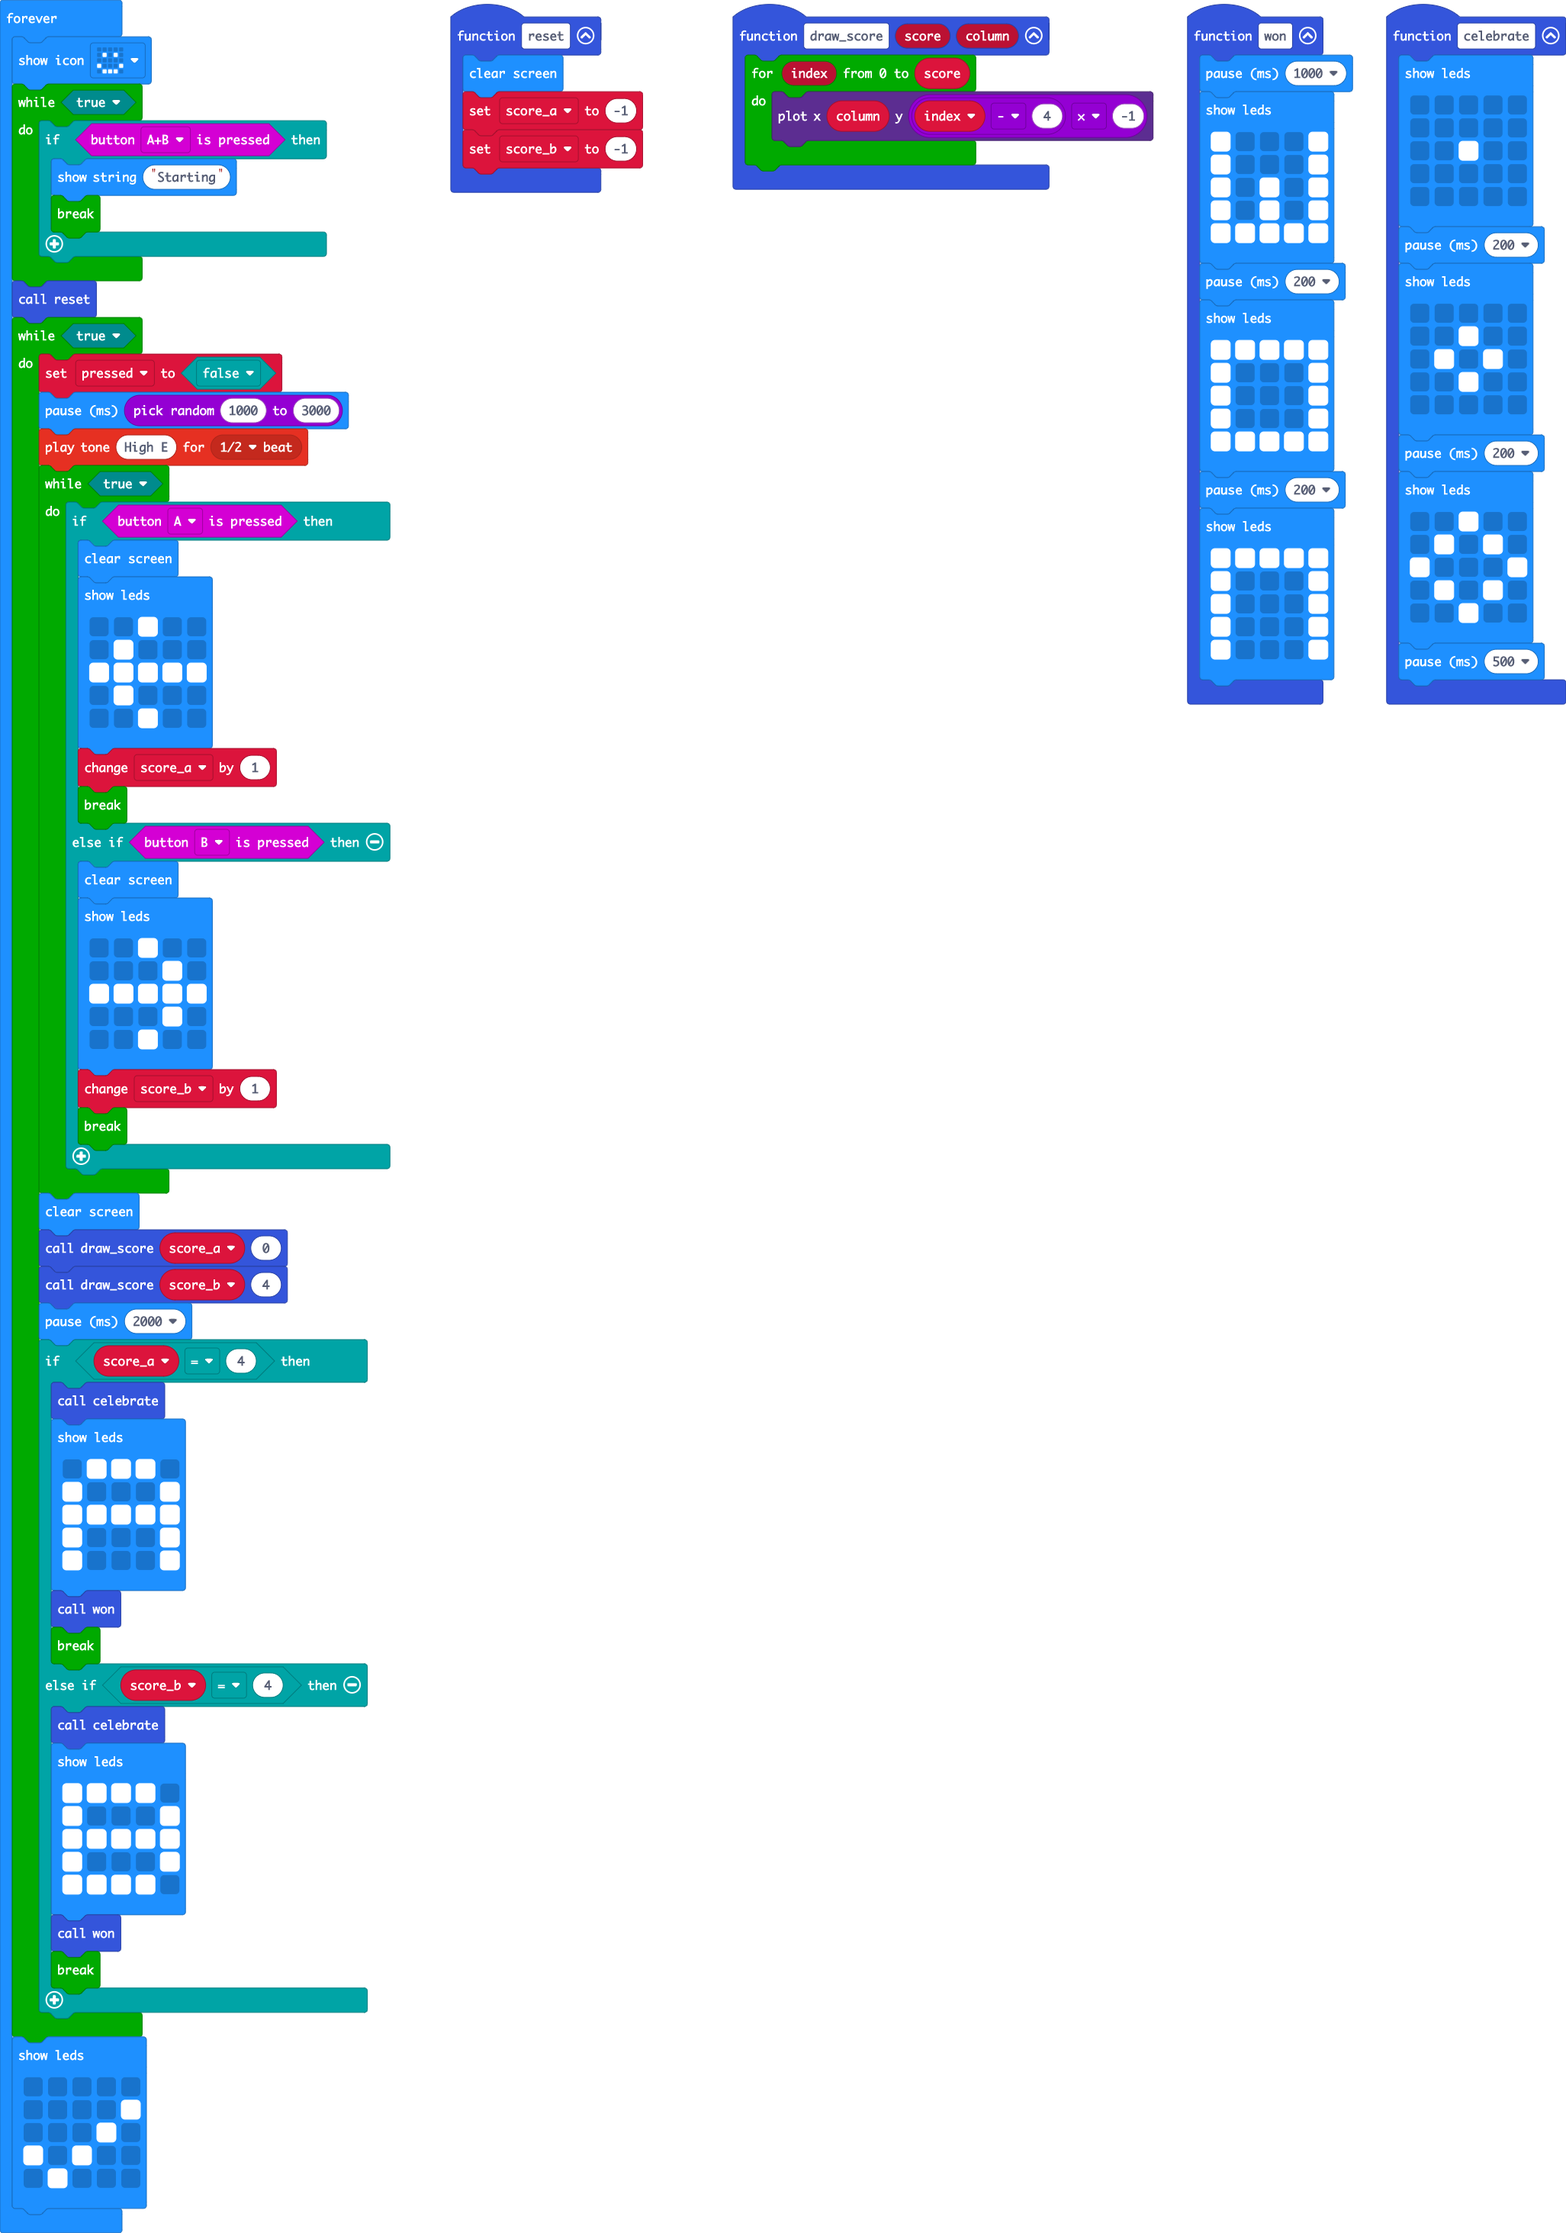
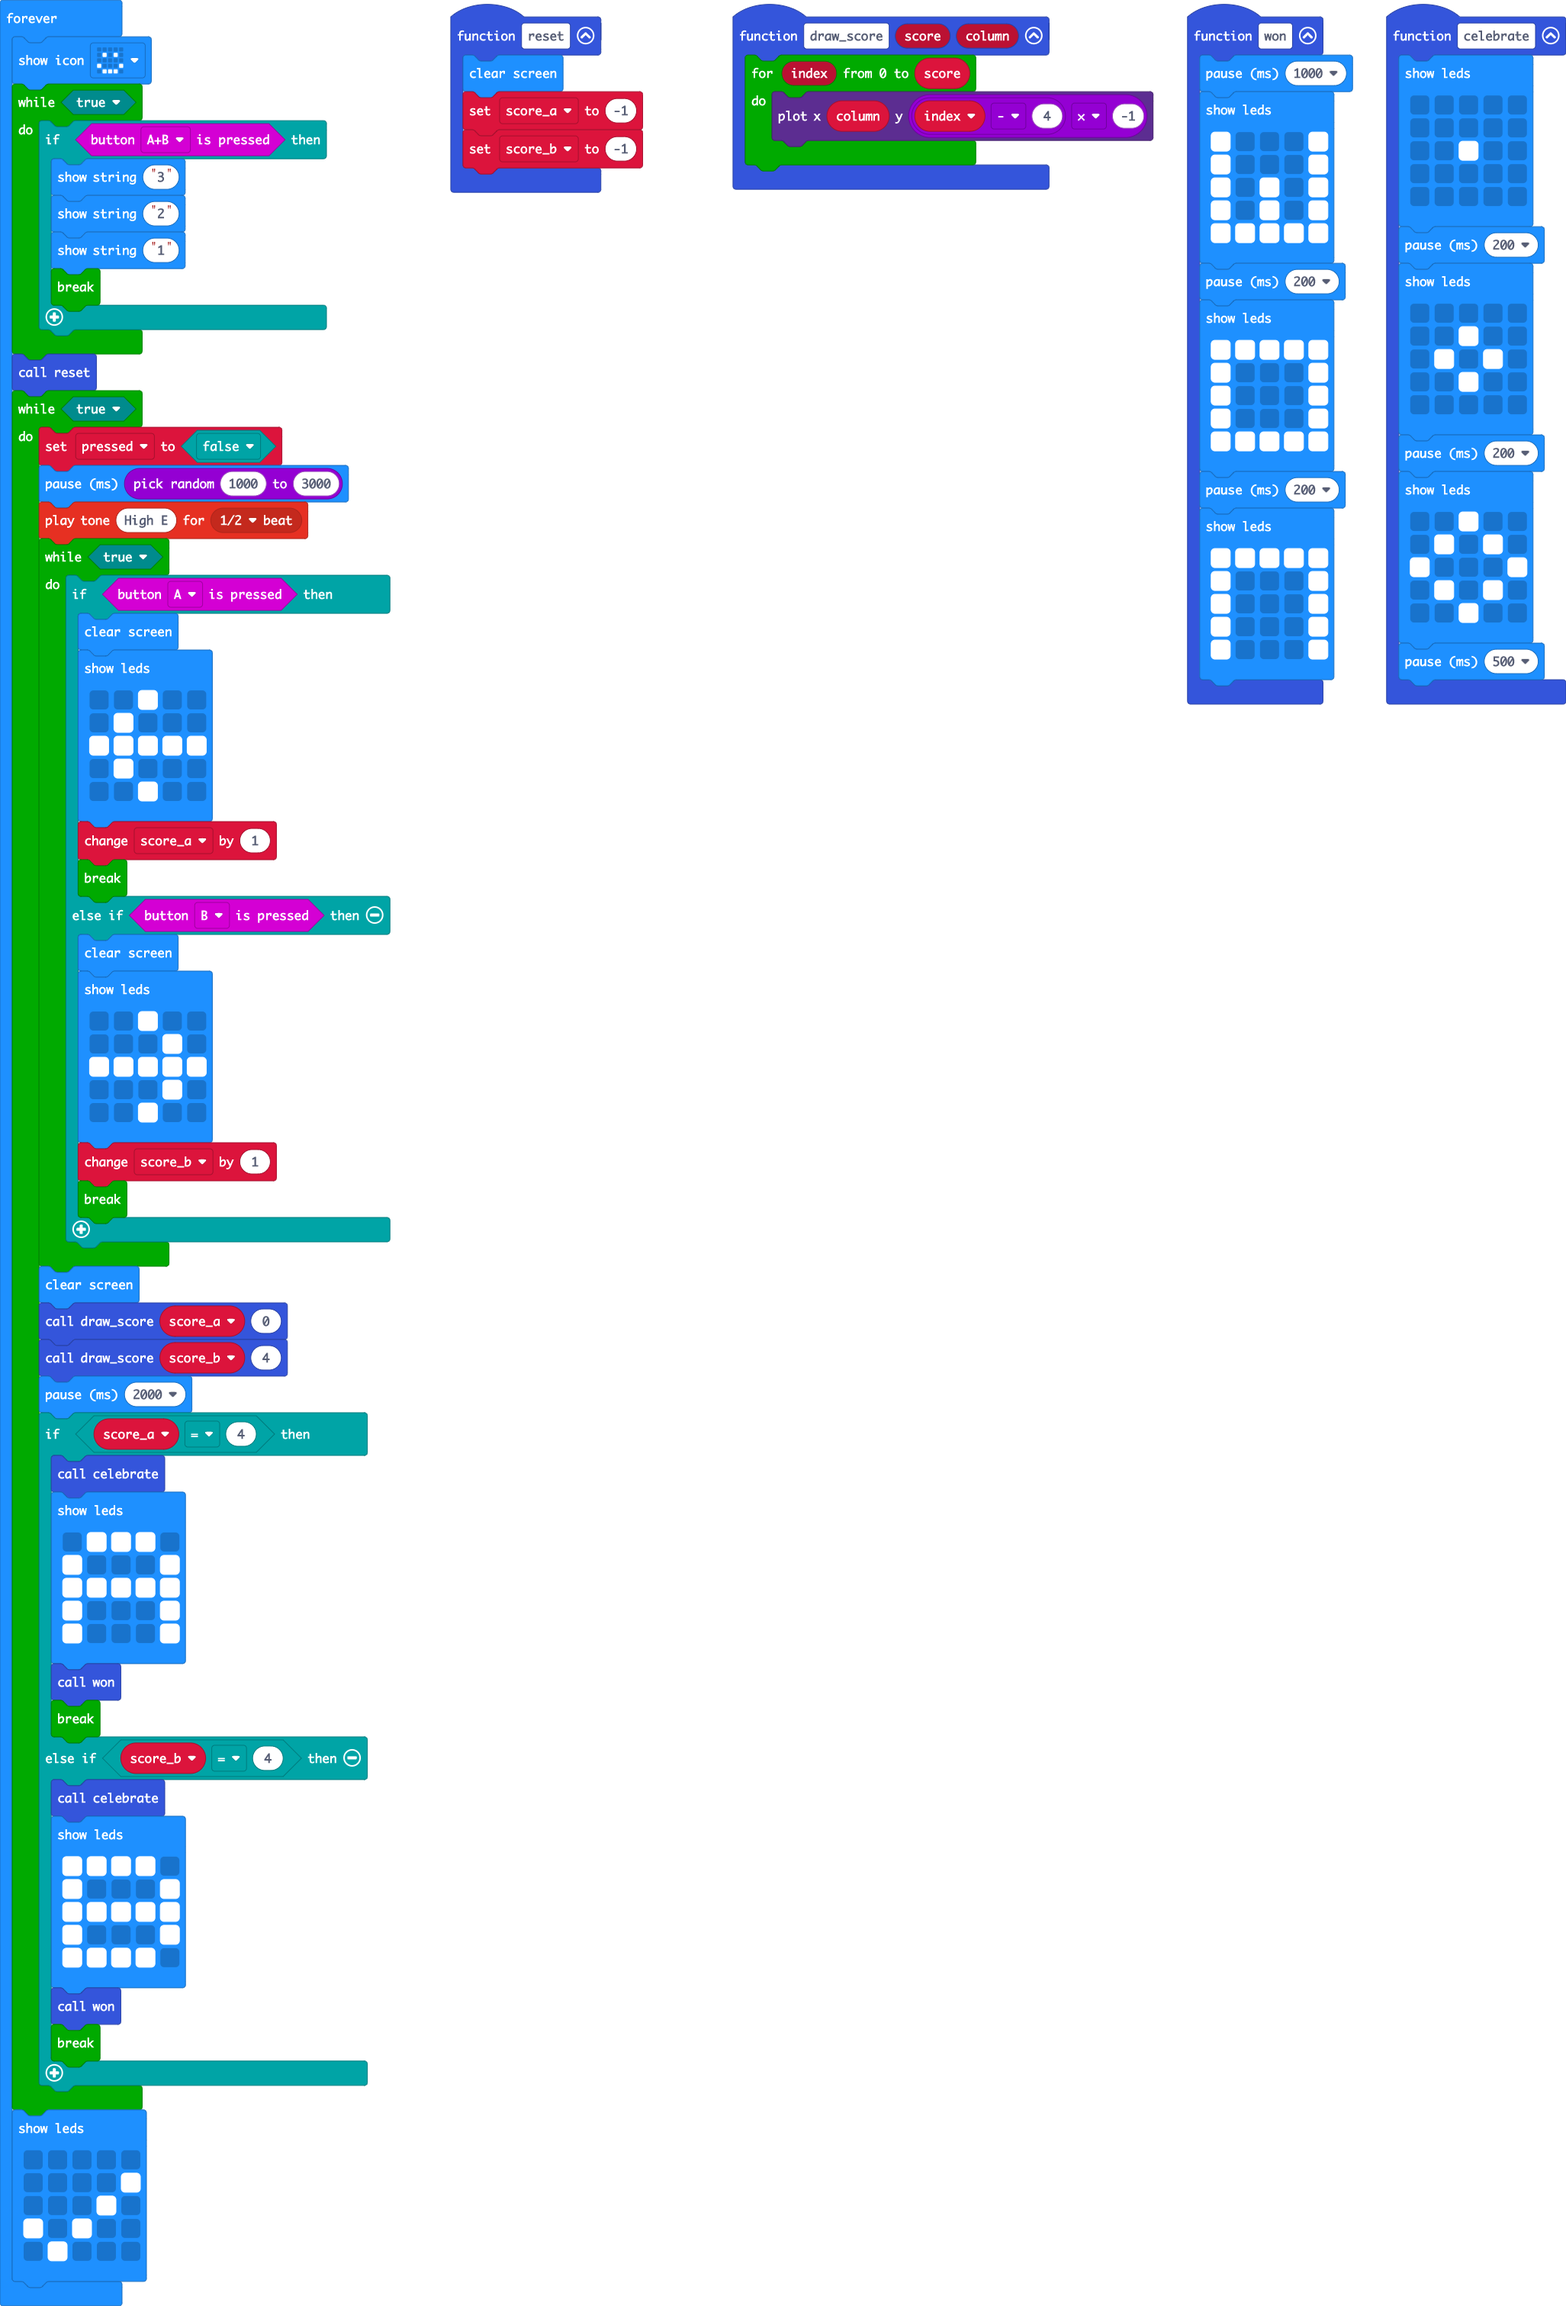
3 2 1

diff --git a/main.ts b/main.ts
@@ -67,7 +67,9 @@ basic.forever(function () {
     basic.showIcon(IconNames.Happy)
     while (true) {
         if (input.buttonIsPressed(Button.AB)) {
-            basic.showString("Starting")
+            basic.showString("3")
+            basic.showString("2")
+            basic.showString("1")
             break;
         }
     }
